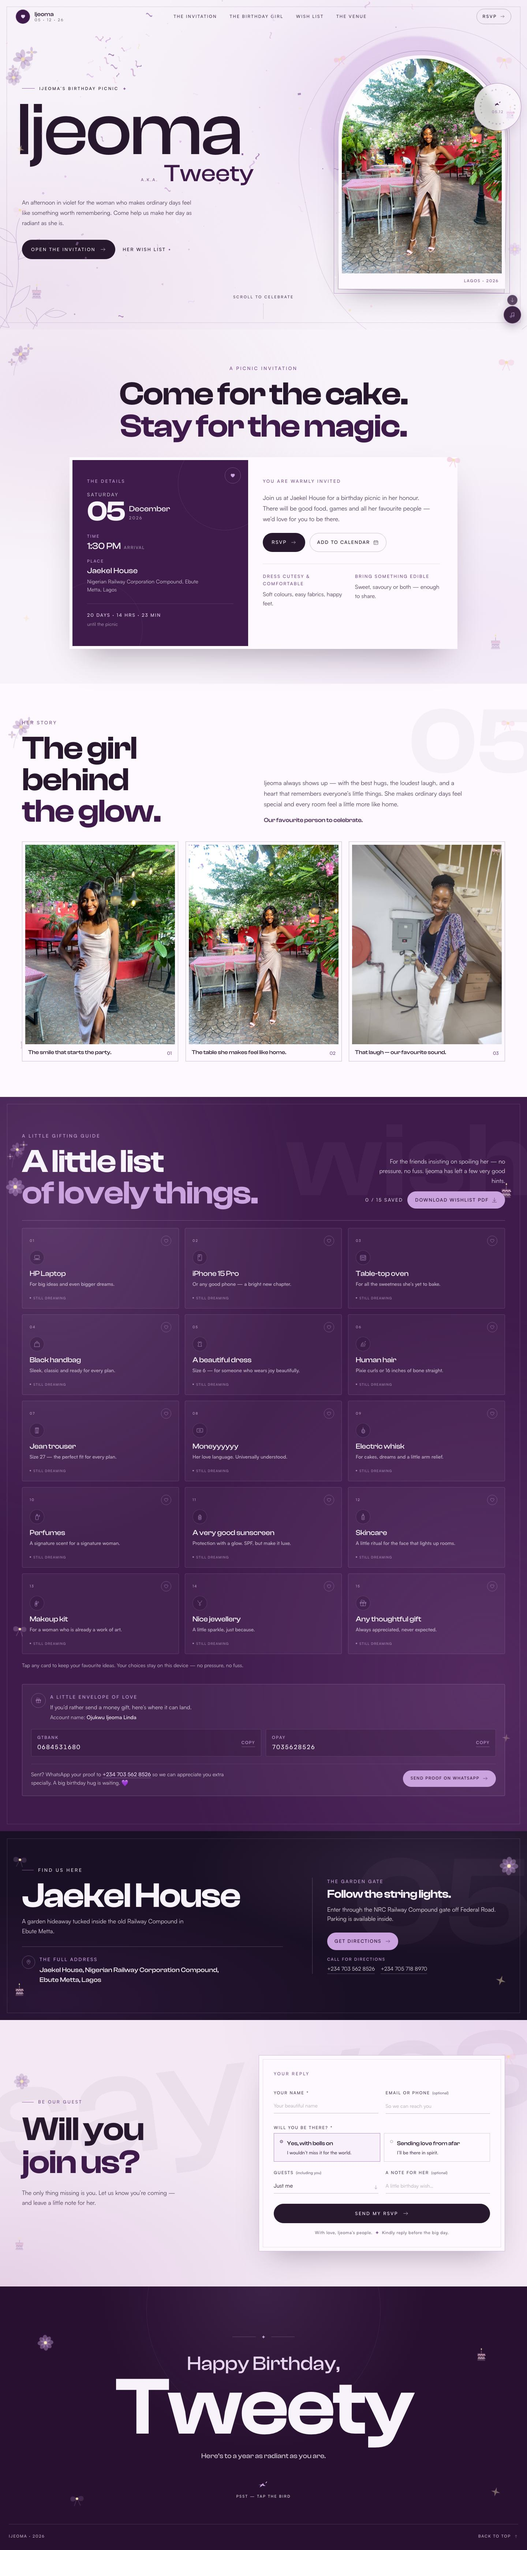
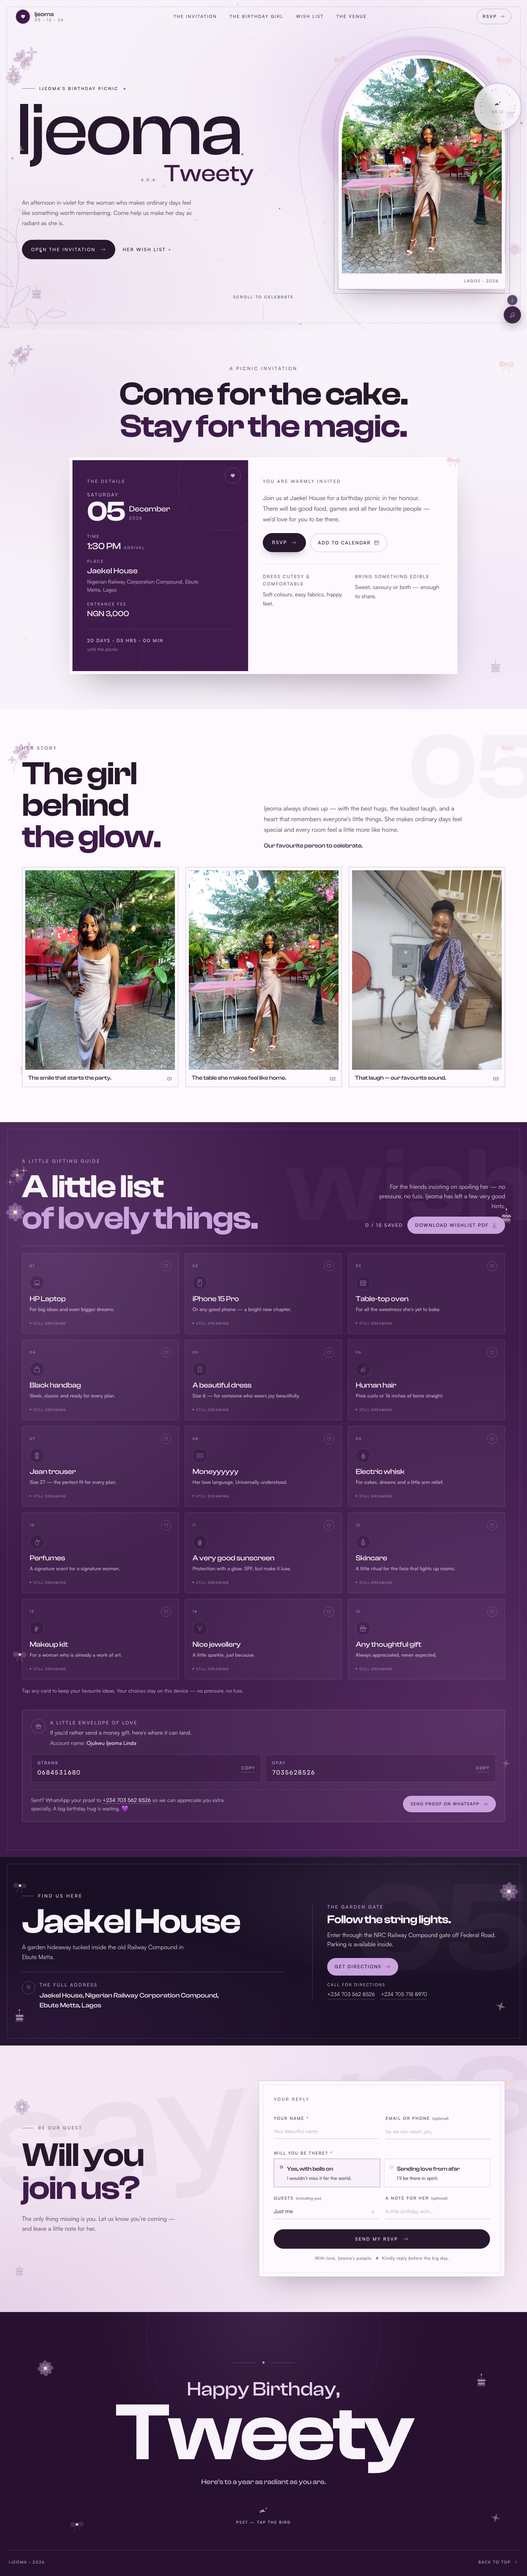
Add entrance fee to invitation and calendar

diff --git a/src/lib/calendar.js b/src/lib/calendar.js
@@ -23,7 +23,7 @@ export function downloadCalendar() {
     "DTEND:20261205T163000Z",
     "SUMMARY:Ijeoma's Birthday Picnic",
     "LOCATION:Jaekel House\\, Nigerian Railway Corporation Compound\\, Ebute Metta\\, Lagos\\, Nigeria",
-    "DESCRIPTION:Join us for Ijeoma's birthday picnic. Arrive by 1:30 PM. Dress cutesy and comfortably, and bring something edible to share. Jaekel House\\, Nigerian Railway Corporation Compound\\, Ebute Metta\\, Lagos. For directions call +234 703 562 8526 or +234 705 718 8970.",
+    "DESCRIPTION:Join us for Ijeoma's birthday picnic. Arrive by 1:30 PM. Dress cutesy and comfortably, and bring something edible to share. Jaekel House\\, Nigerian Railway Corporation Compound\\, Ebute Metta\\, Lagos. Entrance fee: NGN 3,000. For directions call +234 703 562 8526 or +234 705 718 8970.",
     `URL:${MAP_URL}`,
     "END:VEVENT",
     "END:VCALENDAR",

diff --git a/src/components/Invitation.jsx b/src/components/Invitation.jsx
@@ -104,6 +104,14 @@ export default function Invitation() {
                       Nigerian Railway Corporation Compound, Ebute Metta, Lagos
                     </p>
                   </div>
+                  <div aria-label="Entrance Fee: NGN 3,000">
+                    <p className="text-[0.7rem] font-medium uppercase tracking-[0.2em] text-lilac">
+                      Entrance Fee
+                    </p>
+                    <p className="mt-1 font-serif text-[1.35rem] font-medium leading-[1.2] text-cream">
+                      NGN 3,000
+                    </p>
+                  </div>
                 </div>
 
                 <div className="mt-7 border-t border-lilac/20 pt-5">

diff --git a/index.html b/index.html
@@ -3,13 +3,13 @@
   <head>
     <meta charset="UTF-8" />
     <meta name="viewport" content="width=device-width, initial-scale=1.0" />
-    <meta name="build-version" content="2026-11-14-2300" />
+    <meta name="build-version" content="2026-11-14-2310" />
     <meta http-equiv="Cache-Control" content="no-store, no-cache, must-revalidate" />
     <meta http-equiv="Pragma" content="no-cache" />
     <meta http-equiv="Expires" content="0" />
     <script>
       (function () {
-        var BUILD = "2026-11-14-2300";
+        var BUILD = "2026-11-14-2310";
         var KEY = "ijeoma-birthday-build";
         try {
           var url = new URL(window.location.href);

diff --git a/README.md b/README.md
@@ -28,7 +28,7 @@ Directions: **+234 703 562 8526** or **+234 705 718 8970**.
 
 - **Opening gate:** the site opens on a full-screen “Ijeoma” screen. One tap releases a burst of confetti, reveals the celebration and starts its background soundtrack. Browsers block unmuted autoplay, so this gate is the reliable way to begin the audio as the site opens.
 - **Hero:** Clash Display name treatment and portrait, with animated bows and floral accents.
-- **Invitation:** two-panel card with the full address, time, dress code, what to bring and a live countdown.
+- **Invitation:** two-panel card with the full address, time, entrance fee, dress code, what to bring and a live countdown.
 - **Her story:** three portrait cards in a short gallery.
 - **Wishlist:** 15 items in a cute two-column mobile / three-column desktop card grid, tap-to-save hearts, a **Download wishlist PDF** button and a money-gift card.
 - **Venue:** full official address, two directions phone numbers and a direct Google Maps link.
